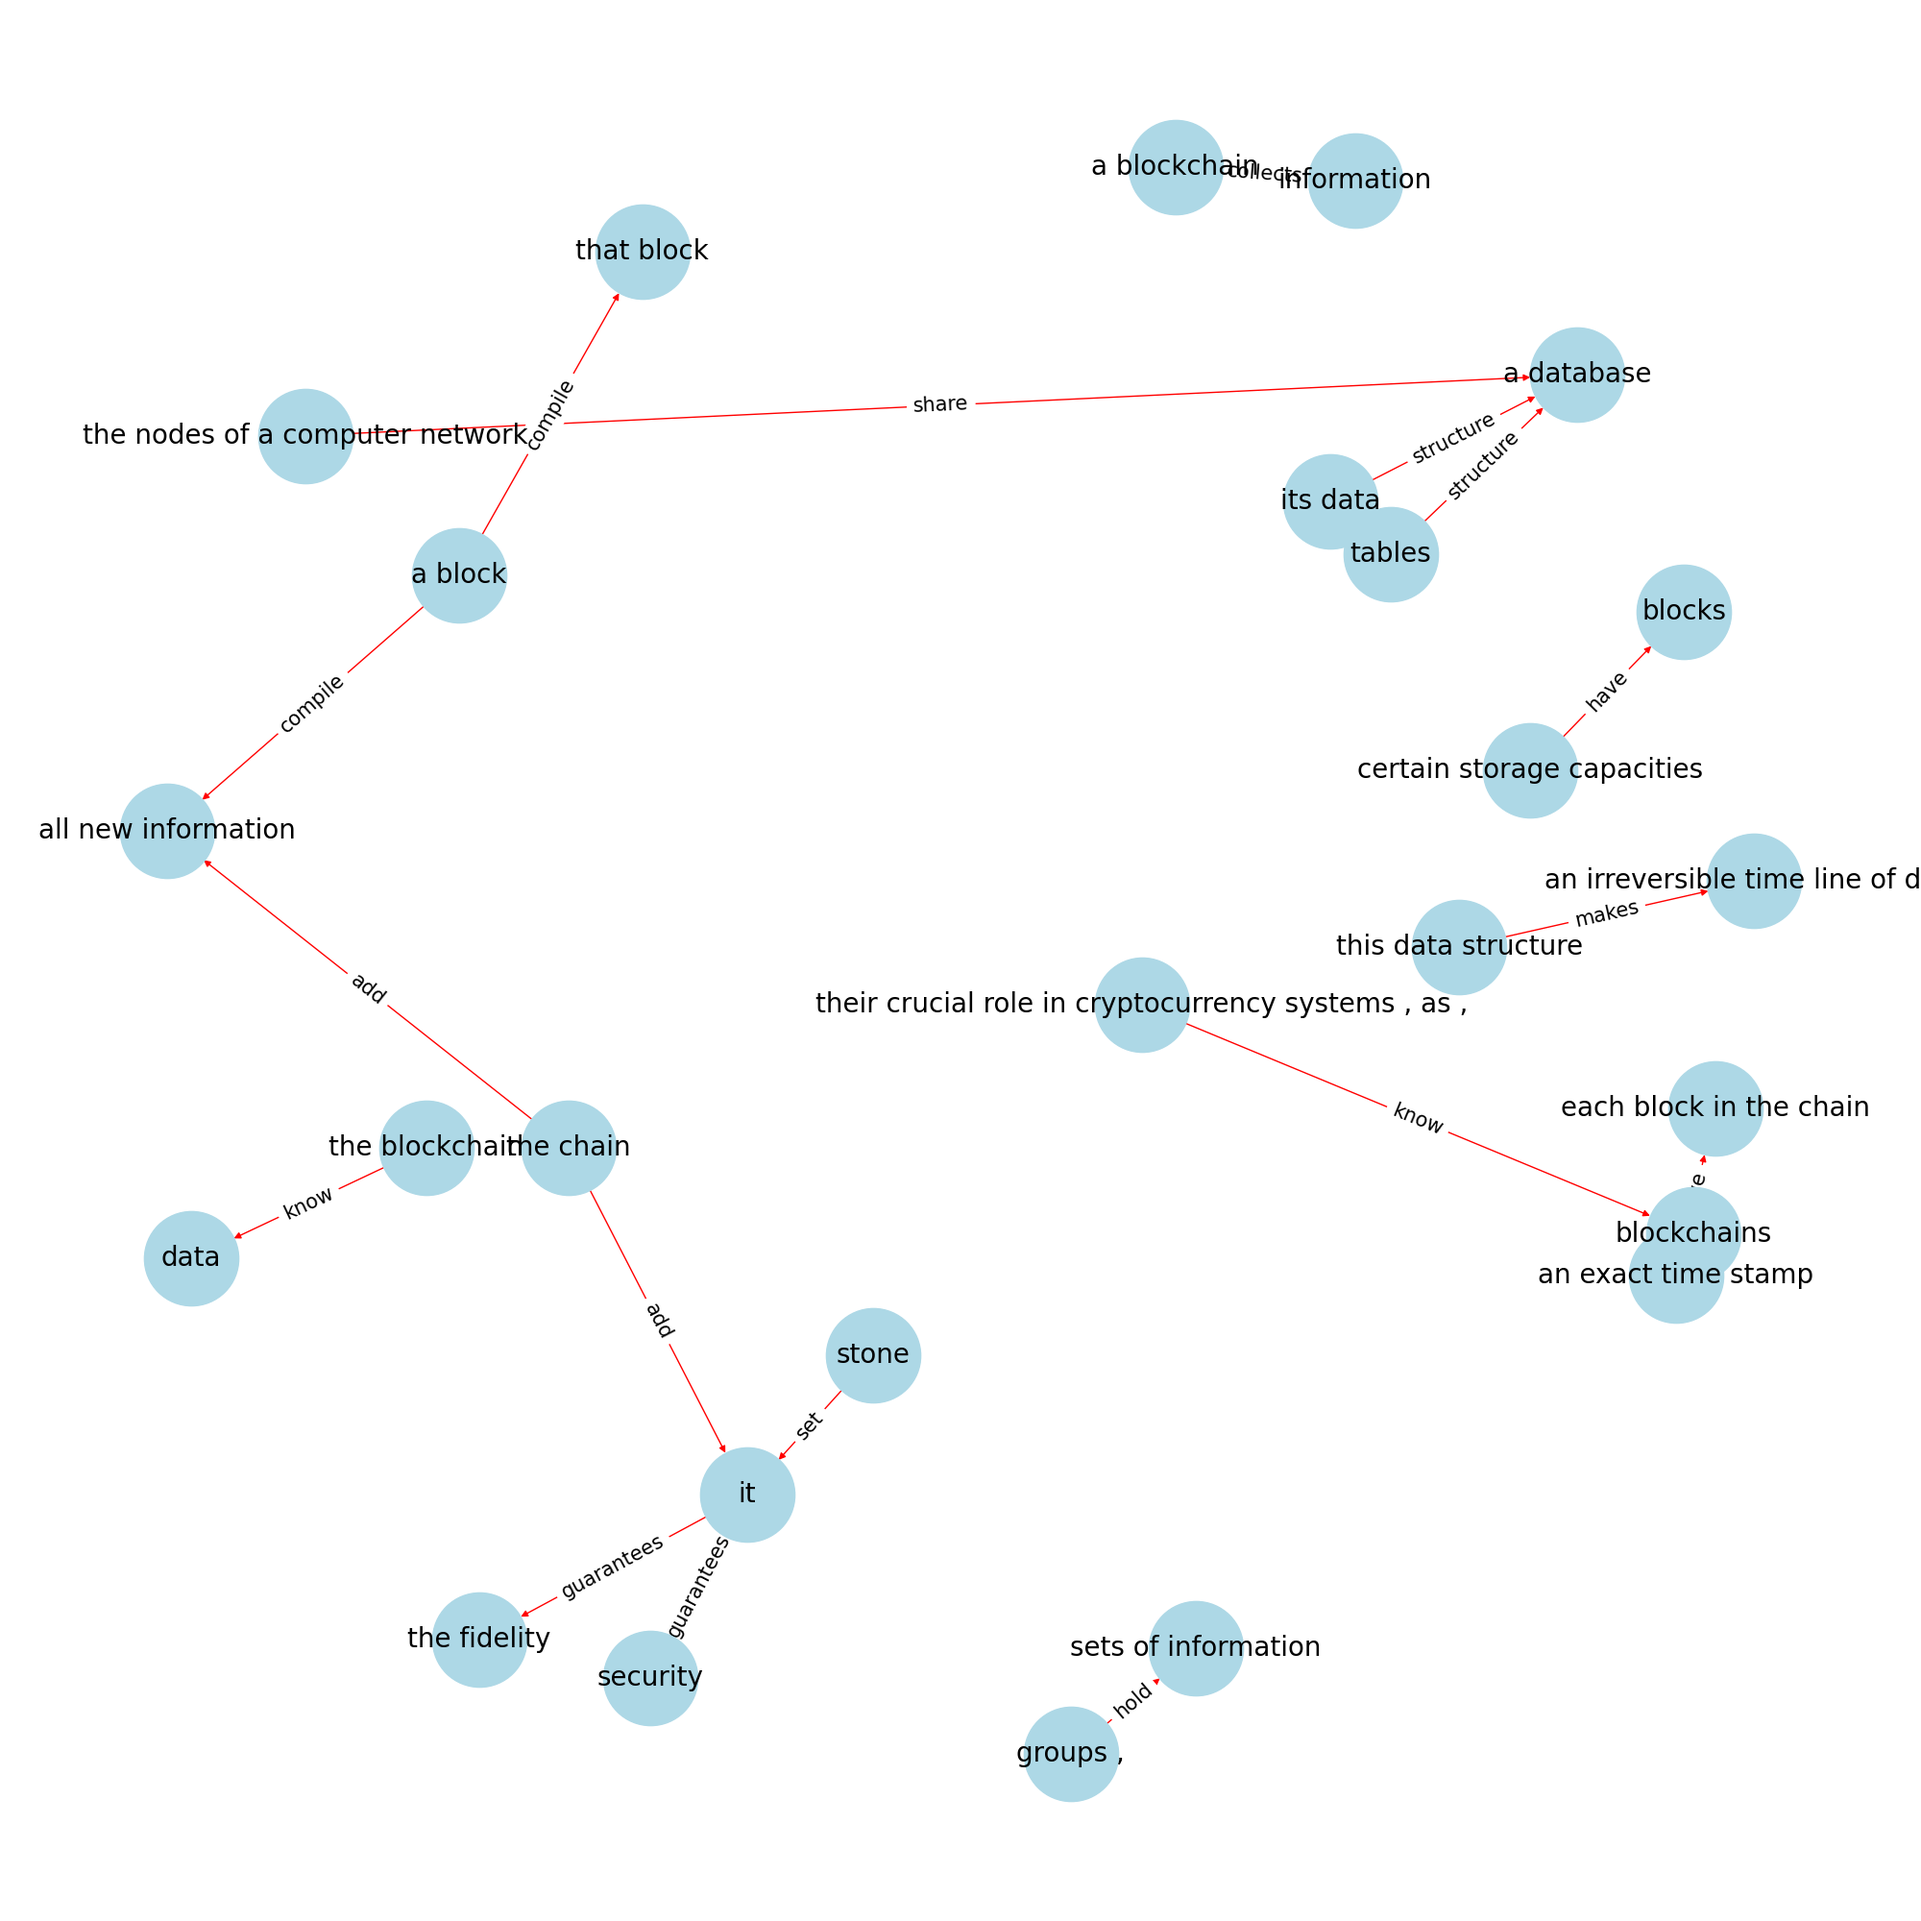
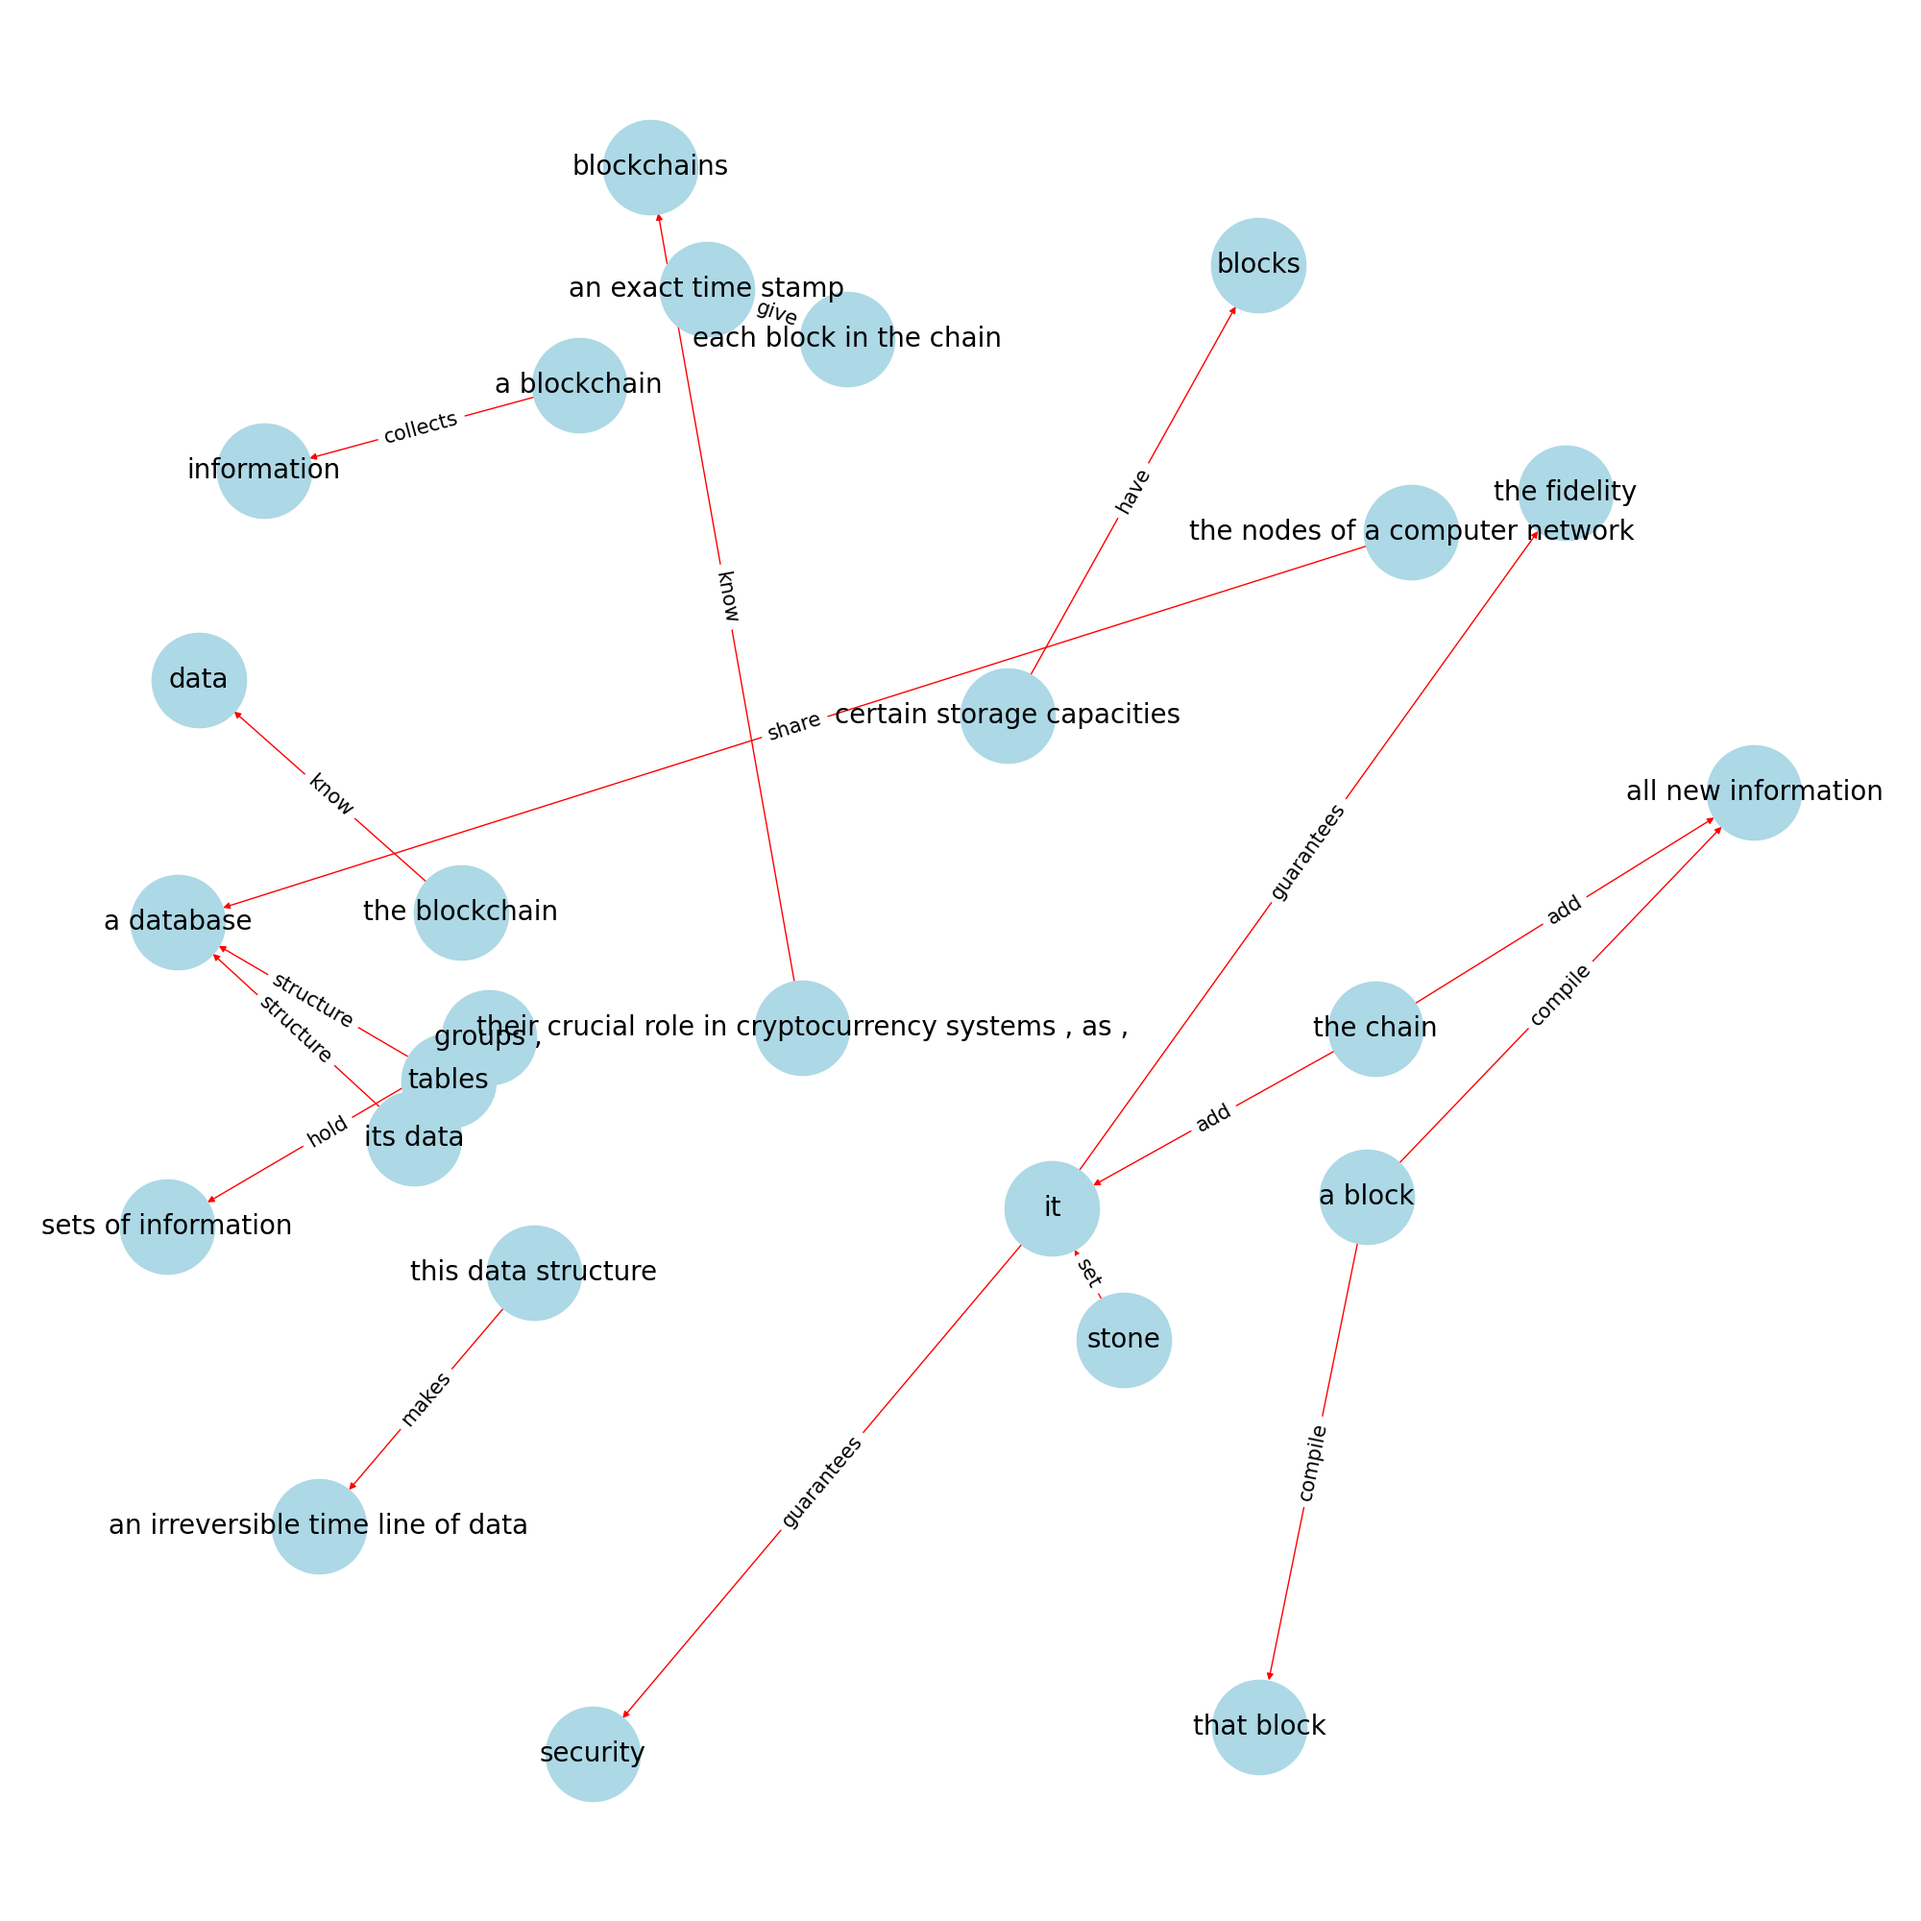
add: another sample kg

diff --git a/ExtractiveSummarization/kg_constructor.py b/ExtractiveSummarization/kg_constructor.py
@@ -41,7 +41,7 @@ def create_graph(final_nodes):
         nx.draw_networkx_edge_labels(G, pos, edge_labels = edge_labels, font_size = 15)
         return G, edge_labels
 
-with open('./blockchain.txt', 'r') as file:
+with open('./summary.txt', 'r') as file:
     text = file.read()
 
 f = sent_tokenize(text)
@@ -62,4 +62,4 @@ for node in nodes:
 print(final_nodes)
 
 create_graph(final_nodes)
-plt.savefig('./images/kg_1.png')
+plt.savefig('./images/kg_1.1.png')
